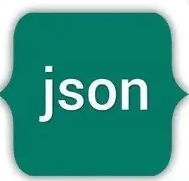
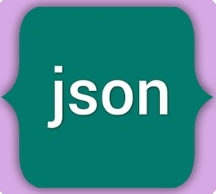
修改图标

diff --git a/README.md b/README.md
@@ -6,7 +6,7 @@ https://tool.openai2025.com/
 
 # 网站效果：
 
-![图片描述](images/61.png)
+![图片描述](images/demo.png)
 
 #### 功能
 
@@ -32,9 +32,25 @@ HTML代码预览器|
 小记|
 二维码生成|
 快递查询|
-图标库CDN服务
 
-2、游戏
+
+2、在线图片处理工具
+
+图片马赛克工具|
+图片水印处理工具|
+图片压缩|
+图片转为ICON工具|
+图片拾取颜色工具|
+图片转Excel工具
+
+3、在线开发工具
+
+base64转换|
+在线json工具|
+正则表达式测试工具
+
+
+4、游戏
 
 扫雷|
 猜拳游戏|
